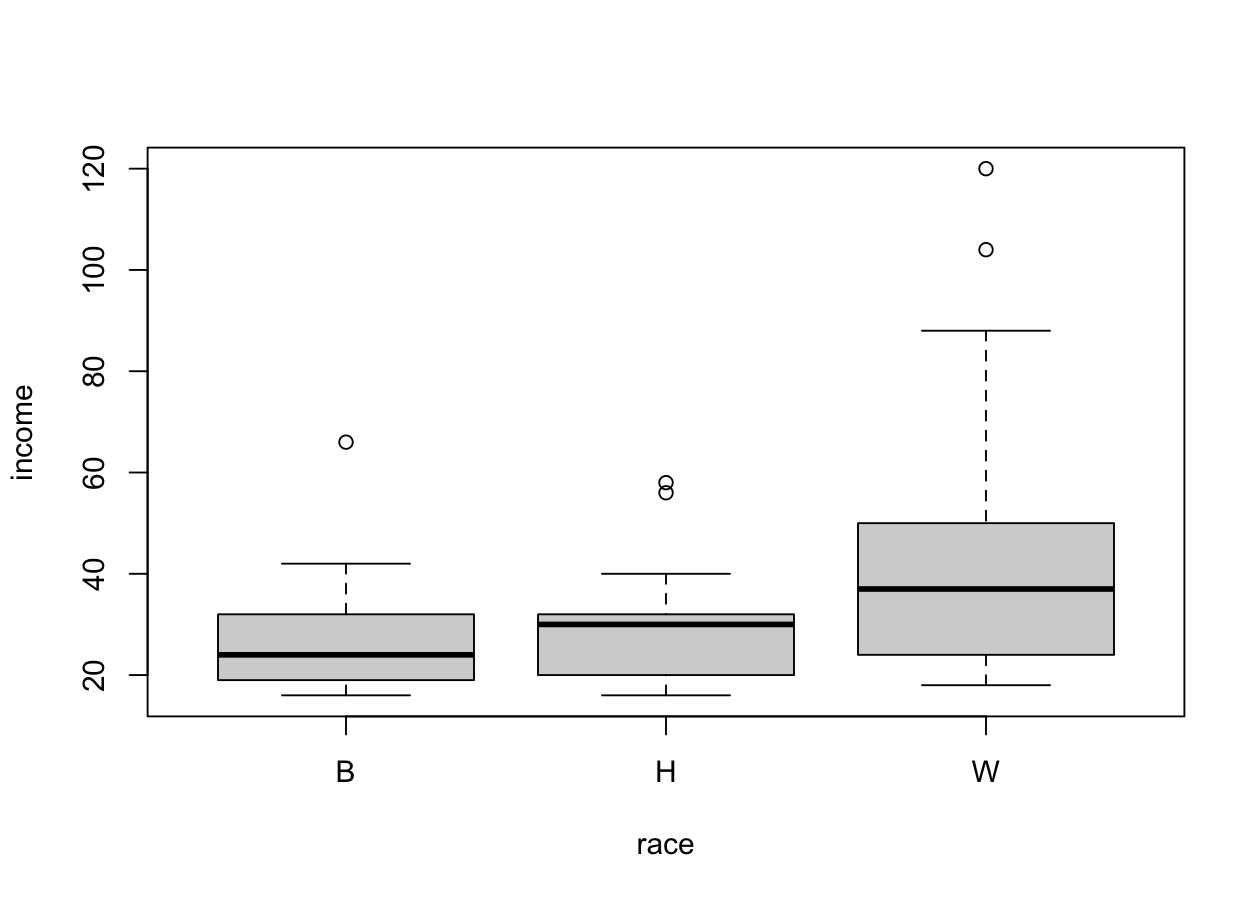
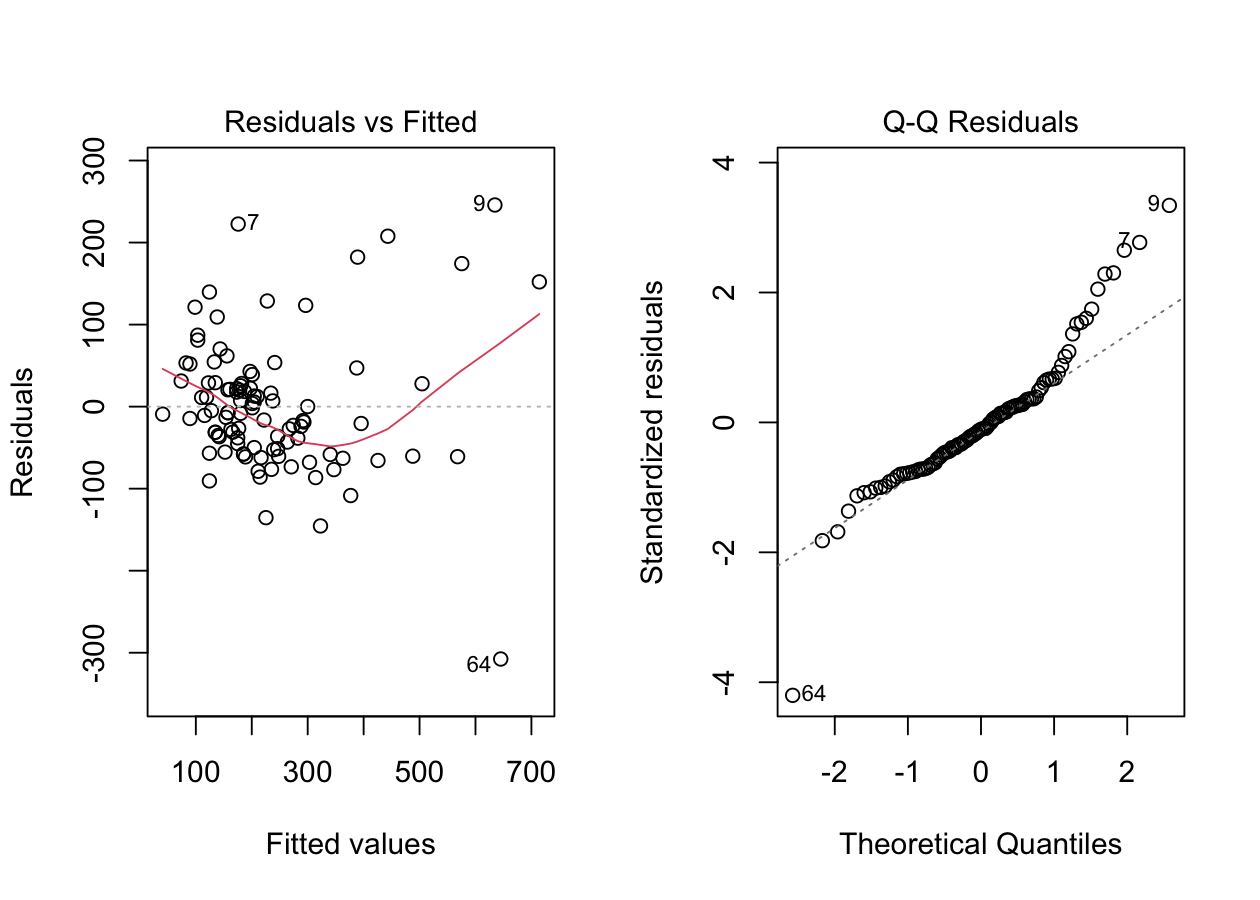
Add diagnostic plots to unit L

diff --git a/un_L.html b/un_L.html
@@ -157,9 +157,11 @@ window.Quarto = {
   <li><a href="#back-to-unit-k" id="toc-back-to-unit-k" class="nav-link" data-scroll-target="#back-to-unit-k">Back to Unit K</a></li>
   <li><a href="#a-qualitative-explanatory-variable" id="toc-a-qualitative-explanatory-variable" class="nav-link" data-scroll-target="#a-qualitative-explanatory-variable">A qualitative explanatory variable</a></li>
   <li><a href="#adjusting-for-the-size" id="toc-adjusting-for-the-size" class="nav-link" data-scroll-target="#adjusting-for-the-size">Adjusting for the size</a></li>
+  <li><a href="#diagnostic-plots-for-the-houses-data" id="toc-diagnostic-plots-for-the-houses-data" class="nav-link" data-scroll-target="#diagnostic-plots-for-the-houses-data">Diagnostic plots for the <code>Houses</code> data</a></li>
   <li><a href="#comparing-three-groups" id="toc-comparing-three-groups" class="nav-link" data-scroll-target="#comparing-three-groups">Comparing three groups</a></li>
   <li><a href="#the-analysis-of-variance" id="toc-the-analysis-of-variance" class="nav-link" data-scroll-target="#the-analysis-of-variance">The analysis of variance</a></li>
   <li><a href="#adjusting-for-education" id="toc-adjusting-for-education" class="nav-link" data-scroll-target="#adjusting-for-education">Adjusting for education</a></li>
+  <li><a href="#diagnostic-plots-for-the-income-data" id="toc-diagnostic-plots-for-the-income-data" class="nav-link" data-scroll-target="#diagnostic-plots-for-the-income-data">Diagnostic plots for the <code>Income</code> data</a></li>
   </ul>
 </nav>
 </div>
@@ -325,6 +327,27 @@ F-statistic: 126.3 on 2 and 97 DF,  p-value: &lt; 2.2e-16</code></pre>
 </div>
 </div>
 </section>
+<section id="diagnostic-plots-for-the-houses-data" class="level2">
+<h2 class="anchored" data-anchor-id="diagnostic-plots-for-the-houses-data">Diagnostic plots for the <code>Houses</code> data</h2>
+<p>As in <a href="un_K.html">Unit K</a>, we check the assumptions of the model with the first two diagnostic plots:</p>
+<div class="cell">
+<div class="code-copy-outer-scaffold"><div class="sourceCode cell-code" id="cb11"><pre class="sourceCode r code-with-copy"><code class="sourceCode r"><span id="cb11-1"><a href="#cb11-1" aria-hidden="true" tabindex="-1"></a><span class="fu">par</span>(<span class="at">mfrow =</span> <span class="fu">c</span>(<span class="dv">1</span>, <span class="dv">2</span>)) <span class="co"># Two plots side by side</span></span>
+<span id="cb11-2"><a href="#cb11-2" aria-hidden="true" tabindex="-1"></a><span class="fu">plot</span>(fit_size_new, <span class="at">which =</span> <span class="dv">1</span><span class="sc">:</span><span class="dv">2</span>)</span></code></pre></div><button title="Copy to Clipboard" class="code-copy-button"><i class="bi"></i></button></div>
+<div class="cell-output-display">
+<div>
+<figure class="figure">
+<p><img src="un_L_files/figure-html/unnamed-chunk-7-1.png" class="img-fluid figure-img" width="630"></p>
+</figure>
+</div>
+</div>
+<div class="code-copy-outer-scaffold"><div class="sourceCode cell-code" id="cb12"><pre class="sourceCode r code-with-copy"><code class="sourceCode r"><span id="cb12-1"><a href="#cb12-1" aria-hidden="true" tabindex="-1"></a><span class="fu">par</span>(<span class="at">mfrow =</span> <span class="fu">c</span>(<span class="dv">1</span>, <span class="dv">1</span>))</span></code></pre></div><button title="Copy to Clipboard" class="code-copy-button"><i class="bi"></i></button></div>
+</div>
+<ul>
+<li><code>Residuals vs Fitted</code>: the cloud is <span class="orange">fan-shaped</span>, since the residuals are more spread out for the more expensive houses. The variance is therefore not constant. House <span class="math inline">64</span>, the largest one, has a very negative residual: its price is much lower than predicted from its size.</li>
+<li><code>Q-Q Residuals</code>: in the upper part, the points lie clearly above the dotted line. The distribution of the residuals is <span class="orange">skewed to the right</span>, as the prices themselves in <a href="exe/exe_B.html">Exercises B</a>.</li>
+</ul>
+<p>The normality and constant variance assumptions are therefore questionable: the estimates are still meaningful, but the P-values and the intervals should be taken as <span class="blue">approximate</span>.</p>
+</section>
 <section id="comparing-three-groups" class="level2">
 <h2 class="anchored" data-anchor-id="comparing-three-groups">Comparing three groups</h2>
 <p>The <code>Income</code> data file of <span class="citation" data-cites="Agresti2022">Agresti and Kateri (<a href="#ref-Agresti2022" role="doc-biblioref">2022</a>)</span> reports, for <span class="math inline">n = 80</span> adult Americans aged over 25, the annual income (<code>income</code>, thousands of dollars), the number of years of education (<code>education</code>) and the racial-ethnic group (<code>race</code>: <code>B</code> for Black, <code>H</code> for Hispanic, <code>W</code> for White).</p>
@@ -342,28 +365,28 @@ F-statistic: 126.3 on 2 and 97 DF,  p-value: &lt; 2.2e-16</code></pre>
 </div>
 </div>
 <div class="cell">
-<div class="code-copy-outer-scaffold"><div class="sourceCode cell-code" id="cb11"><pre class="sourceCode r code-with-copy"><code class="sourceCode r"><span id="cb11-1"><a href="#cb11-1" aria-hidden="true" tabindex="-1"></a>path <span class="ot">&lt;-</span> <span class="st">"https://stat4ds.rwth-aachen.de/data/Income.dat"</span></span>
-<span id="cb11-2"><a href="#cb11-2" aria-hidden="true" tabindex="-1"></a>Income <span class="ot">&lt;-</span> <span class="fu">read.table</span>(path, <span class="at">header =</span> <span class="cn">TRUE</span>)</span>
-<span id="cb11-3"><a href="#cb11-3" aria-hidden="true" tabindex="-1"></a>Income<span class="sc">$</span>race <span class="ot">&lt;-</span> <span class="fu">factor</span>(Income<span class="sc">$</span>race)</span>
-<span id="cb11-4"><a href="#cb11-4" aria-hidden="true" tabindex="-1"></a><span class="fu">table</span>(Income<span class="sc">$</span>race)</span></code></pre></div><button title="Copy to Clipboard" class="code-copy-button"><i class="bi"></i></button></div>
+<div class="code-copy-outer-scaffold"><div class="sourceCode cell-code" id="cb13"><pre class="sourceCode r code-with-copy"><code class="sourceCode r"><span id="cb13-1"><a href="#cb13-1" aria-hidden="true" tabindex="-1"></a>path <span class="ot">&lt;-</span> <span class="st">"https://stat4ds.rwth-aachen.de/data/Income.dat"</span></span>
+<span id="cb13-2"><a href="#cb13-2" aria-hidden="true" tabindex="-1"></a>Income <span class="ot">&lt;-</span> <span class="fu">read.table</span>(path, <span class="at">header =</span> <span class="cn">TRUE</span>)</span>
+<span id="cb13-3"><a href="#cb13-3" aria-hidden="true" tabindex="-1"></a>Income<span class="sc">$</span>race <span class="ot">&lt;-</span> <span class="fu">factor</span>(Income<span class="sc">$</span>race)</span>
+<span id="cb13-4"><a href="#cb13-4" aria-hidden="true" tabindex="-1"></a><span class="fu">table</span>(Income<span class="sc">$</span>race)</span></code></pre></div><button title="Copy to Clipboard" class="code-copy-button"><i class="bi"></i></button></div>
 <div class="cell-output cell-output-stdout">
 <pre><code>
  B  H  W 
 16 14 50 </code></pre>
 </div>
-<div class="code-copy-outer-scaffold"><div class="sourceCode cell-code" id="cb13"><pre class="sourceCode r code-with-copy"><code class="sourceCode r"><span id="cb13-1"><a href="#cb13-1" aria-hidden="true" tabindex="-1"></a><span class="fu">boxplot</span>(income <span class="sc">~</span> race, <span class="at">data =</span> Income)</span></code></pre></div><button title="Copy to Clipboard" class="code-copy-button"><i class="bi"></i></button></div>
+<div class="code-copy-outer-scaffold"><div class="sourceCode cell-code" id="cb15"><pre class="sourceCode r code-with-copy"><code class="sourceCode r"><span id="cb15-1"><a href="#cb15-1" aria-hidden="true" tabindex="-1"></a><span class="fu">boxplot</span>(income <span class="sc">~</span> race, <span class="at">data =</span> Income)</span></code></pre></div><button title="Copy to Clipboard" class="code-copy-button"><i class="bi"></i></button></div>
 <div class="cell-output-display">
 <div>
 <figure class="figure">
-<p><img src="un_L_files/figure-html/unnamed-chunk-7-1.png" class="img-fluid figure-img" width="630"></p>
+<p><img src="un_L_files/figure-html/unnamed-chunk-8-1.png" class="img-fluid figure-img" width="630"></p>
 </figure>
 </div>
 </div>
 </div>
 <p>With <span class="math inline">c = 3</span> categories, <strong>R</strong> creates <span class="math inline">c - 1 = 2</span> indicators, <code>raceH</code> and <code>raceW</code>, and the first category, <code>B</code>, is the reference:</p>
 <div class="cell">
-<div class="code-copy-outer-scaffold"><div class="sourceCode cell-code" id="cb14"><pre class="sourceCode r code-with-copy"><code class="sourceCode r"><span id="cb14-1"><a href="#cb14-1" aria-hidden="true" tabindex="-1"></a>fit_race <span class="ot">&lt;-</span> <span class="fu">lm</span>(income <span class="sc">~</span> race, <span class="at">data =</span> Income)</span>
-<span id="cb14-2"><a href="#cb14-2" aria-hidden="true" tabindex="-1"></a><span class="fu">summary</span>(fit_race)</span></code></pre></div><button title="Copy to Clipboard" class="code-copy-button"><i class="bi"></i></button></div>
+<div class="code-copy-outer-scaffold"><div class="sourceCode cell-code" id="cb16"><pre class="sourceCode r code-with-copy"><code class="sourceCode r"><span id="cb16-1"><a href="#cb16-1" aria-hidden="true" tabindex="-1"></a>fit_race <span class="ot">&lt;-</span> <span class="fu">lm</span>(income <span class="sc">~</span> race, <span class="at">data =</span> Income)</span>
+<span id="cb16-2"><a href="#cb16-2" aria-hidden="true" tabindex="-1"></a><span class="fu">summary</span>(fit_race)</span></code></pre></div><button title="Copy to Clipboard" class="code-copy-button"><i class="bi"></i></button></div>
 <div class="cell-output cell-output-stdout">
 <pre><code>
 Call:
@@ -388,14 +411,14 @@ F-statistic: 4.244 on 2 and 77 DF,  p-value: 0.01784</code></pre>
 </div>
 <p>The model is <span class="math inline">Y_i = \alpha + \beta_1 x_{i1} + \beta_2 x_{i2} + \epsilon_i</span>, where <span class="math inline">x_{i1}</span> and <span class="math inline">x_{i2}</span> are the indicators of Hispanics and Whites. Denoting by <span class="math inline">\mu_B</span>, <span class="math inline">\mu_H</span> and <span class="math inline">\mu_W</span> the mean incomes of the three groups, we have <span class="math inline">\alpha = \mu_B</span>, <span class="math inline">\beta_1 = \mu_H - \mu_B</span> and <span class="math inline">\beta_2 = \mu_W - \mu_B</span>. Indeed, the estimates are the differences between the sample means:</p>
 <div class="cell">
-<div class="code-copy-outer-scaffold"><div class="sourceCode cell-code" id="cb16"><pre class="sourceCode r code-with-copy"><code class="sourceCode r"><span id="cb16-1"><a href="#cb16-1" aria-hidden="true" tabindex="-1"></a>income_B <span class="ot">&lt;-</span> Income<span class="sc">$</span>income[Income<span class="sc">$</span>race <span class="sc">==</span> <span class="st">"B"</span>]</span>
-<span id="cb16-2"><a href="#cb16-2" aria-hidden="true" tabindex="-1"></a>income_H <span class="ot">&lt;-</span> Income<span class="sc">$</span>income[Income<span class="sc">$</span>race <span class="sc">==</span> <span class="st">"H"</span>]</span>
-<span id="cb16-3"><a href="#cb16-3" aria-hidden="true" tabindex="-1"></a>income_W <span class="ot">&lt;-</span> Income<span class="sc">$</span>income[Income<span class="sc">$</span>race <span class="sc">==</span> <span class="st">"W"</span>]</span>
-<span id="cb16-4"><a href="#cb16-4" aria-hidden="true" tabindex="-1"></a><span class="fu">c</span>(<span class="fu">mean</span>(income_B), <span class="fu">mean</span>(income_H), <span class="fu">mean</span>(income_W))</span></code></pre></div><button title="Copy to Clipboard" class="code-copy-button"><i class="bi"></i></button></div>
+<div class="code-copy-outer-scaffold"><div class="sourceCode cell-code" id="cb18"><pre class="sourceCode r code-with-copy"><code class="sourceCode r"><span id="cb18-1"><a href="#cb18-1" aria-hidden="true" tabindex="-1"></a>income_B <span class="ot">&lt;-</span> Income<span class="sc">$</span>income[Income<span class="sc">$</span>race <span class="sc">==</span> <span class="st">"B"</span>]</span>
+<span id="cb18-2"><a href="#cb18-2" aria-hidden="true" tabindex="-1"></a>income_H <span class="ot">&lt;-</span> Income<span class="sc">$</span>income[Income<span class="sc">$</span>race <span class="sc">==</span> <span class="st">"H"</span>]</span>
+<span id="cb18-3"><a href="#cb18-3" aria-hidden="true" tabindex="-1"></a>income_W <span class="ot">&lt;-</span> Income<span class="sc">$</span>income[Income<span class="sc">$</span>race <span class="sc">==</span> <span class="st">"W"</span>]</span>
+<span id="cb18-4"><a href="#cb18-4" aria-hidden="true" tabindex="-1"></a><span class="fu">c</span>(<span class="fu">mean</span>(income_B), <span class="fu">mean</span>(income_H), <span class="fu">mean</span>(income_W))</span></code></pre></div><button title="Copy to Clipboard" class="code-copy-button"><i class="bi"></i></button></div>
 <div class="cell-output cell-output-stdout">
 <pre><code>[1] 27.75 31.00 42.48</code></pre>
 </div>
-<div class="code-copy-outer-scaffold"><div class="sourceCode cell-code" id="cb18"><pre class="sourceCode r code-with-copy"><code class="sourceCode r"><span id="cb18-1"><a href="#cb18-1" aria-hidden="true" tabindex="-1"></a><span class="fu">c</span>(<span class="fu">mean</span>(income_H) <span class="sc">-</span> <span class="fu">mean</span>(income_B), <span class="fu">mean</span>(income_W) <span class="sc">-</span> <span class="fu">mean</span>(income_B))</span></code></pre></div><button title="Copy to Clipboard" class="code-copy-button"><i class="bi"></i></button></div>
+<div class="code-copy-outer-scaffold"><div class="sourceCode cell-code" id="cb20"><pre class="sourceCode r code-with-copy"><code class="sourceCode r"><span id="cb20-1"><a href="#cb20-1" aria-hidden="true" tabindex="-1"></a><span class="fu">c</span>(<span class="fu">mean</span>(income_H) <span class="sc">-</span> <span class="fu">mean</span>(income_B), <span class="fu">mean</span>(income_W) <span class="sc">-</span> <span class="fu">mean</span>(income_B))</span></code></pre></div><button title="Copy to Clipboard" class="code-copy-button"><i class="bi"></i></button></div>
 <div class="cell-output cell-output-stdout">
 <pre><code>[1]  3.25 14.73</code></pre>
 </div>
@@ -405,7 +428,7 @@ F-statistic: 4.244 on 2 and 77 DF,  p-value: 0.01784</code></pre>
 <h2 class="anchored" data-anchor-id="the-analysis-of-variance">The analysis of variance</h2>
 <p>The three groups have the same mean if <span class="math inline">H_0: \mu_B = \mu_H = \mu_W</span>, that is, if <span class="math inline">H_0: \beta_1 = \beta_2 = 0</span>. This is exactly the hypothesis of the <span class="orange">F test</span> in the last line of <code>summary(fit_race)</code>, also obtained with the command <code>anova</code>:</p>
 <div class="cell">
-<div class="code-copy-outer-scaffold"><div class="sourceCode cell-code" id="cb20"><pre class="sourceCode r code-with-copy"><code class="sourceCode r"><span id="cb20-1"><a href="#cb20-1" aria-hidden="true" tabindex="-1"></a><span class="fu">anova</span>(fit_race)</span></code></pre></div><button title="Copy to Clipboard" class="code-copy-button"><i class="bi"></i></button></div>
+<div class="code-copy-outer-scaffold"><div class="sourceCode cell-code" id="cb22"><pre class="sourceCode r code-with-copy"><code class="sourceCode r"><span id="cb22-1"><a href="#cb22-1" aria-hidden="true" tabindex="-1"></a><span class="fu">anova</span>(fit_race)</span></code></pre></div><button title="Copy to Clipboard" class="code-copy-button"><i class="bi"></i></button></div>
 <div class="cell-output cell-output-stdout">
 <pre><code>Analysis of Variance Table
 
@@ -428,8 +451,8 @@ Signif. codes:  0 '***' 0.001 '**' 0.01 '*' 0.05 '.' 0.1 ' ' 1</code></pre>
 <h2 class="anchored" data-anchor-id="adjusting-for-education">Adjusting for education</h2>
 <p>As in <a href="un_K.html">Unit K</a>, we can add a quantitative variable to the model:</p>
 <div class="cell">
-<div class="code-copy-outer-scaffold"><div class="sourceCode cell-code" id="cb22"><pre class="sourceCode r code-with-copy"><code class="sourceCode r"><span id="cb22-1"><a href="#cb22-1" aria-hidden="true" tabindex="-1"></a>fit_race_edu <span class="ot">&lt;-</span> <span class="fu">lm</span>(income <span class="sc">~</span> race <span class="sc">+</span> education, <span class="at">data =</span> Income)</span>
-<span id="cb22-2"><a href="#cb22-2" aria-hidden="true" tabindex="-1"></a><span class="fu">summary</span>(fit_race_edu)</span></code></pre></div><button title="Copy to Clipboard" class="code-copy-button"><i class="bi"></i></button></div>
+<div class="code-copy-outer-scaffold"><div class="sourceCode cell-code" id="cb24"><pre class="sourceCode r code-with-copy"><code class="sourceCode r"><span id="cb24-1"><a href="#cb24-1" aria-hidden="true" tabindex="-1"></a>fit_race_edu <span class="ot">&lt;-</span> <span class="fu">lm</span>(income <span class="sc">~</span> race <span class="sc">+</span> education, <span class="at">data =</span> Income)</span>
+<span id="cb24-2"><a href="#cb24-2" aria-hidden="true" tabindex="-1"></a><span class="fu">summary</span>(fit_race_edu)</span></code></pre></div><button title="Copy to Clipboard" class="code-copy-button"><i class="bi"></i></button></div>
 <div class="cell-output cell-output-stdout">
 <pre><code>
 Call:
@@ -457,6 +480,22 @@ F-statistic: 21.75 on 3 and 76 DF,  p-value: 2.853e-10</code></pre>
 <li>Each additional year of education corresponds, on average, to <span class="math inline">4.43</span> thousand dollars of additional income, adjusting for the group.</li>
 <li>Adjusting for education, the difference between the mean incomes of Whites and Blacks is <span class="math inline">10.9</span> thousand dollars, instead of <span class="math inline">14.7</span>: part of the difference between the groups is due to education.</li>
 </ul>
+</section>
+<section id="diagnostic-plots-for-the-income-data" class="level2">
+<h2 class="anchored" data-anchor-id="diagnostic-plots-for-the-income-data">Diagnostic plots for the <code>Income</code> data</h2>
+<div class="cell">
+<div class="code-copy-outer-scaffold"><div class="sourceCode cell-code" id="cb26"><pre class="sourceCode r code-with-copy"><code class="sourceCode r"><span id="cb26-1"><a href="#cb26-1" aria-hidden="true" tabindex="-1"></a><span class="fu">par</span>(<span class="at">mfrow =</span> <span class="fu">c</span>(<span class="dv">1</span>, <span class="dv">2</span>))</span>
+<span id="cb26-2"><a href="#cb26-2" aria-hidden="true" tabindex="-1"></a><span class="fu">plot</span>(fit_race_edu, <span class="at">which =</span> <span class="dv">1</span><span class="sc">:</span><span class="dv">2</span>)</span></code></pre></div><button title="Copy to Clipboard" class="code-copy-button"><i class="bi"></i></button></div>
+<div class="cell-output-display">
+<div>
+<figure class="figure">
+<p><img src="un_L_files/figure-html/unnamed-chunk-13-1.png" class="img-fluid figure-img" width="630"></p>
+</figure>
+</div>
+</div>
+<div class="code-copy-outer-scaffold"><div class="sourceCode cell-code" id="cb27"><pre class="sourceCode r code-with-copy"><code class="sourceCode r"><span id="cb27-1"><a href="#cb27-1" aria-hidden="true" tabindex="-1"></a><span class="fu">par</span>(<span class="at">mfrow =</span> <span class="fu">c</span>(<span class="dv">1</span>, <span class="dv">1</span>))</span></code></pre></div><button title="Copy to Clipboard" class="code-copy-button"><i class="bi"></i></button></div>
+</div>
+<p>The red line of <code>Residuals vs Fitted</code> is roughly flat, but two people, numbers <span class="math inline">67</span> and <span class="math inline">72</span>, have incomes much higher than predicted. In the <code>Q-Q Residuals</code> plot, the points in the upper part lie above the dotted line: as is typical for incomes, the residuals are <span class="orange">skewed to the right</span>. Also here, the P-values should be taken as approximate.</p>
 
 </section>
 
